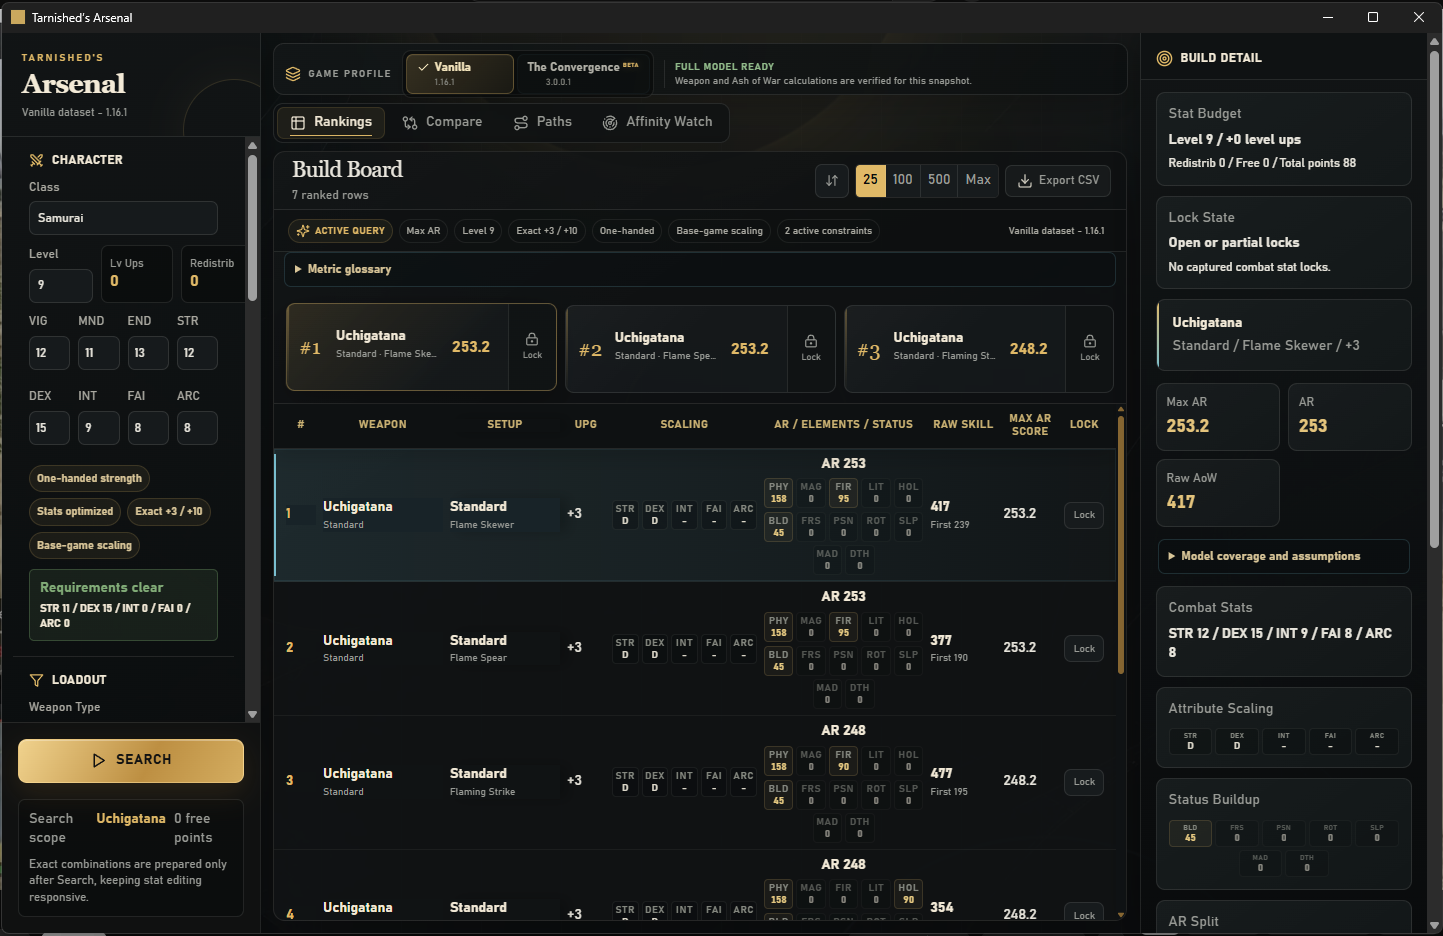
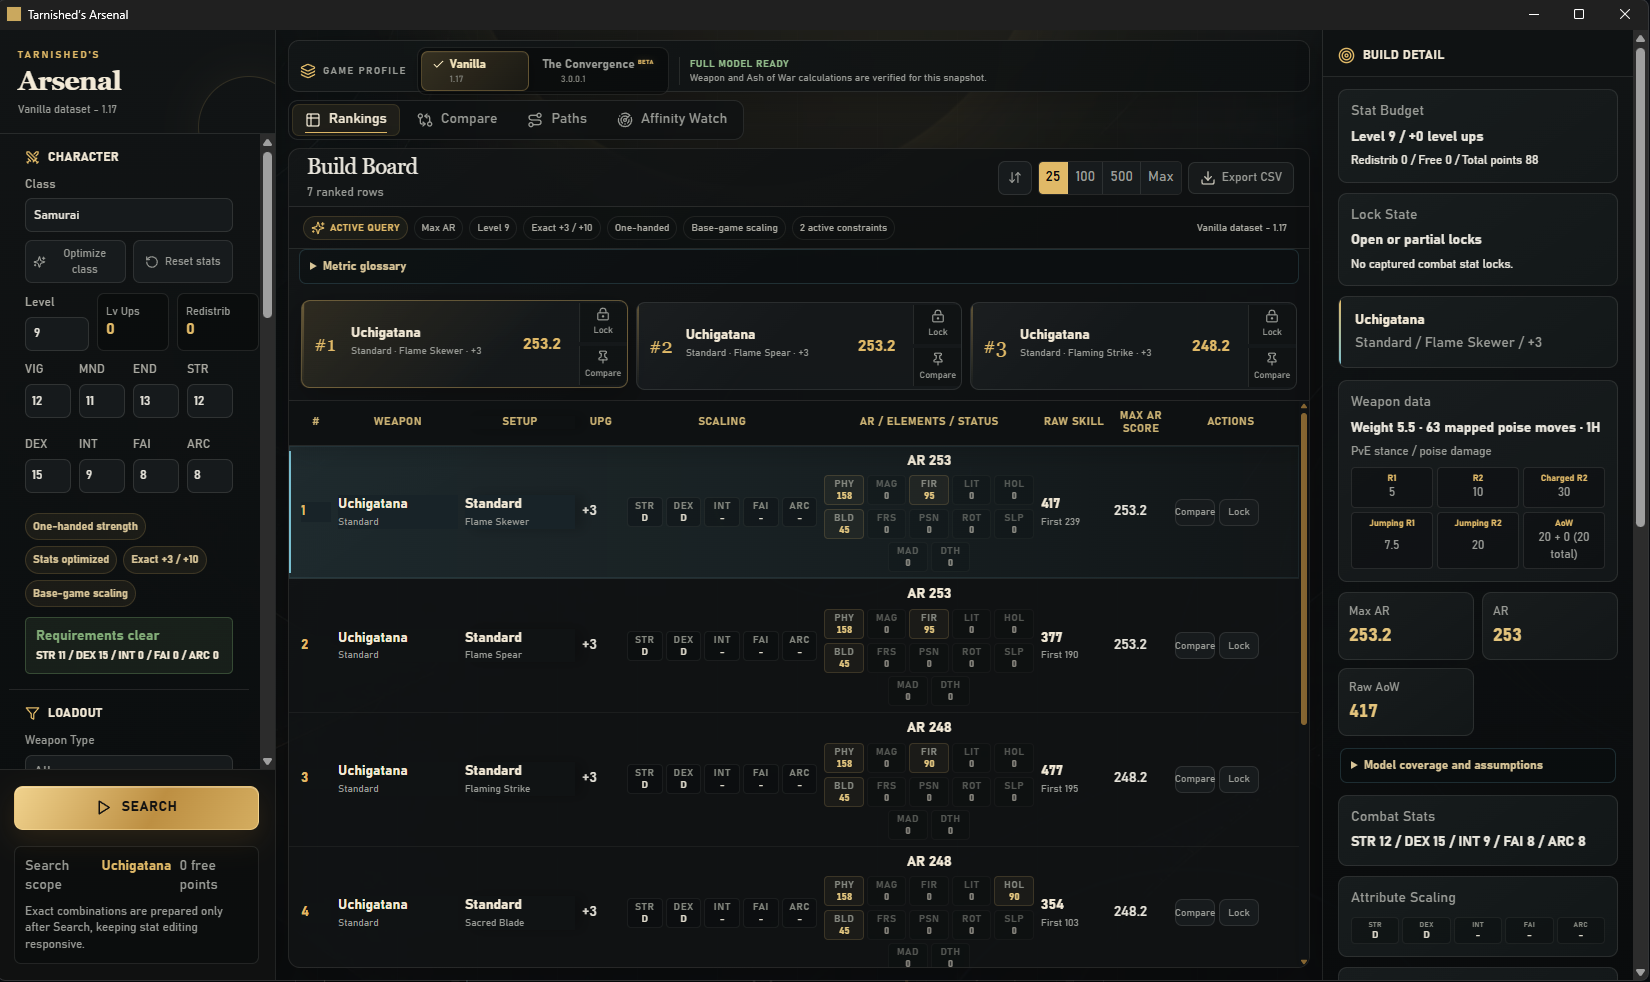
Fix optimizer notation and README screenshot

diff --git a/docs/design/optimizer-math.md b/docs/design/optimizer-math.md
@@ -33,9 +33,10 @@ $$P = B_c + (L-L_c) - \sum_{j=1}^{8} a_j.$$
 The request is rejected if a current stat is below its class minimum or $P<0$.
 `build_combat_constraints` (`optimizer.rs`) applies requested floors and locks:
 
-$$m_i=\max(a_i,\operatorname{floor}_i), \qquad u_i=99,$$
+$$m_i=\max(a_i,f_i), \qquad u_i=99,$$
 
-with $m_i=u_i$ for a locked stat. Mandatory raises consume budget, so initially
+where $f_i$ is the requested floor, with $m_i=u_i$ for a locked stat. Mandatory raises
+consume budget, so initially
 
 $$R=P-\sum_i(m_i-a_i).$$
 
@@ -45,7 +46,7 @@ rejected if a mandatory raise exceeds the budget or if $R>\sum_i c_i$.
 
 When two-handing is legal, effective Strength is
 
-$$\operatorname{effSTR}(s)=\left\lfloor\frac{3s}{2}\right\rfloor.$$
+$$e_{\mathrm{STR}}(s)=\left\lfloor\frac{3s}{2}\right\rfloor.$$
 
 This affects requirement checks and curve lookup but remains a function of STR alone.
 Generated and validated calc-correct curves cover every reachable effective value
@@ -79,12 +80,12 @@ The searched region is the union
 $$
 \mathcal X_w=
 \bigcup_{p=p_{\min}}^{p_{\max}}
-\left\{
+\{
 x\in\mathbb Z^5:
 m_i\le x_i\le u_i,\
 \sum_{i\in A}(x_i-m_i)=p,\
 x_i=h_i(R-p)\text{ for }i\notin A
-\right\}.
+\}.
 $$
 
 Searching only $p_{\max}$ would require every active contribution to be monotone.
@@ -103,7 +104,7 @@ $$
 where $b_d$ is base damage, $r_d$ the reinforcement damage multiplier, $I_{i,d}$
 the attack-element routing flag, $s_i$ weapon scaling, $q_i$ reinforcement scaling,
 $\gamma_d$ the selected calc-correct curve, and $x_i'$ the effective stat. Only STR
-changes under two-handing: $x_{\mathrm{STR}}'=\operatorname{effSTR}(x_{\mathrm{STR}})$.
+changes under two-handing: $x_{\mathrm{STR}}'=e_{\mathrm{STR}}(x_{\mathrm{STR}})$.
 
 With $\beta_d=b_dr_d$,
 
@@ -156,7 +157,7 @@ $$D_0(0)=m, \qquad D_0(p)=\bot\quad(p>0),$$
 where $\bot$ is unreachable and is represented by `None`. For each legal addition,
 
 $$
-D_i(p)=\operatorname{best}_{0\le v\le\min(c_i,p)}
+D_i(p)=\mathrm{best}_{0\le v\le\min(c_i,p)}
 \left(D_{i-1}(p-v)\oplus\Delta_i(v)\right).
 $$
 
